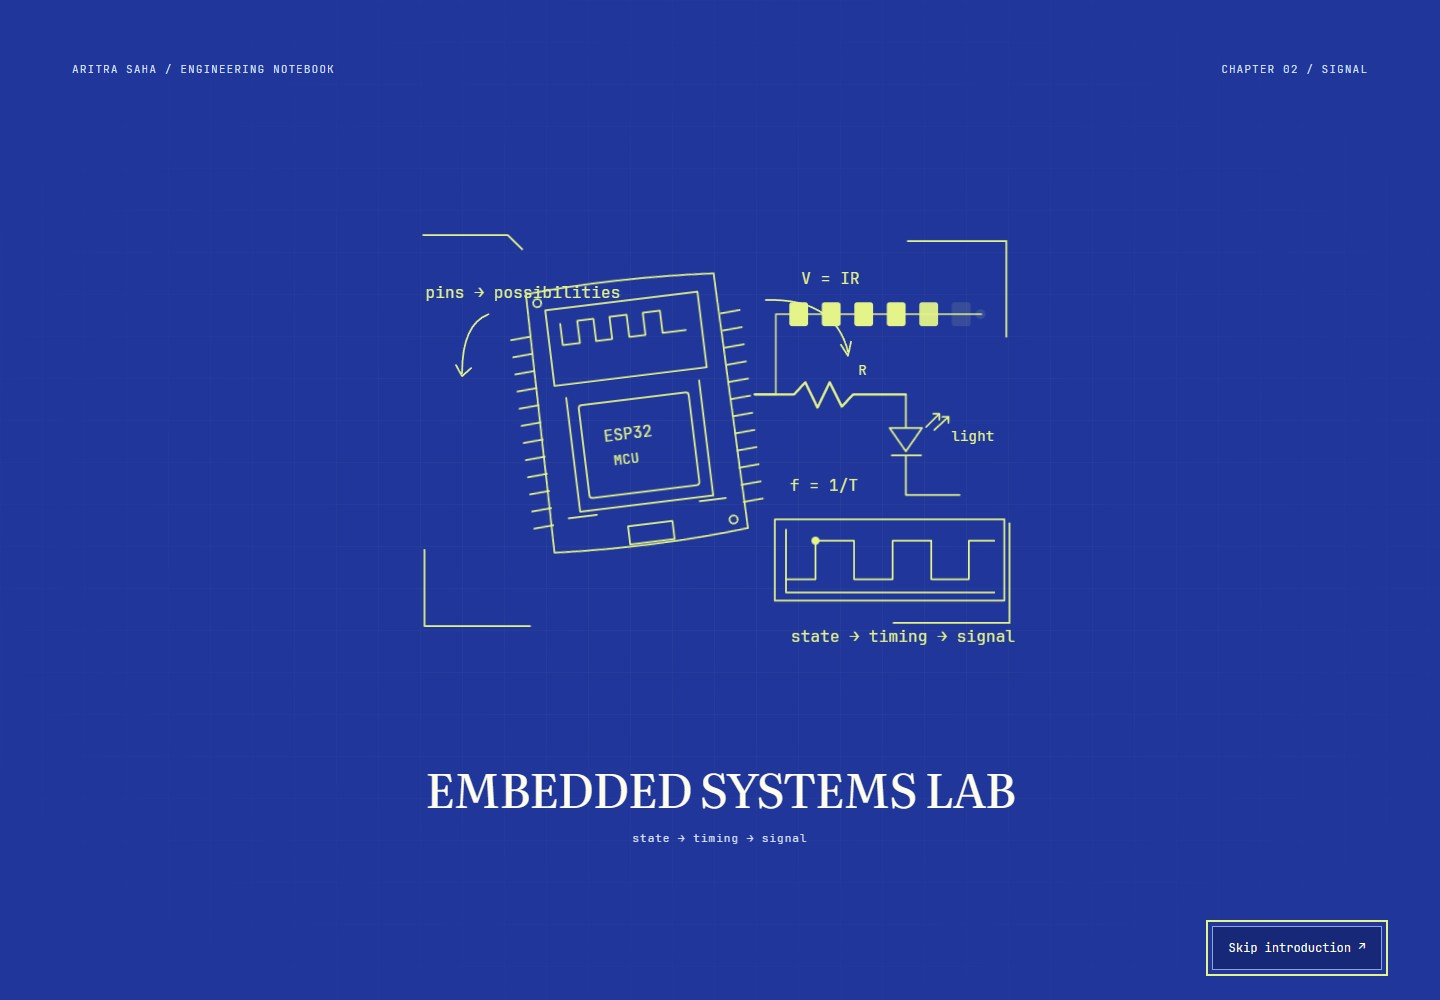
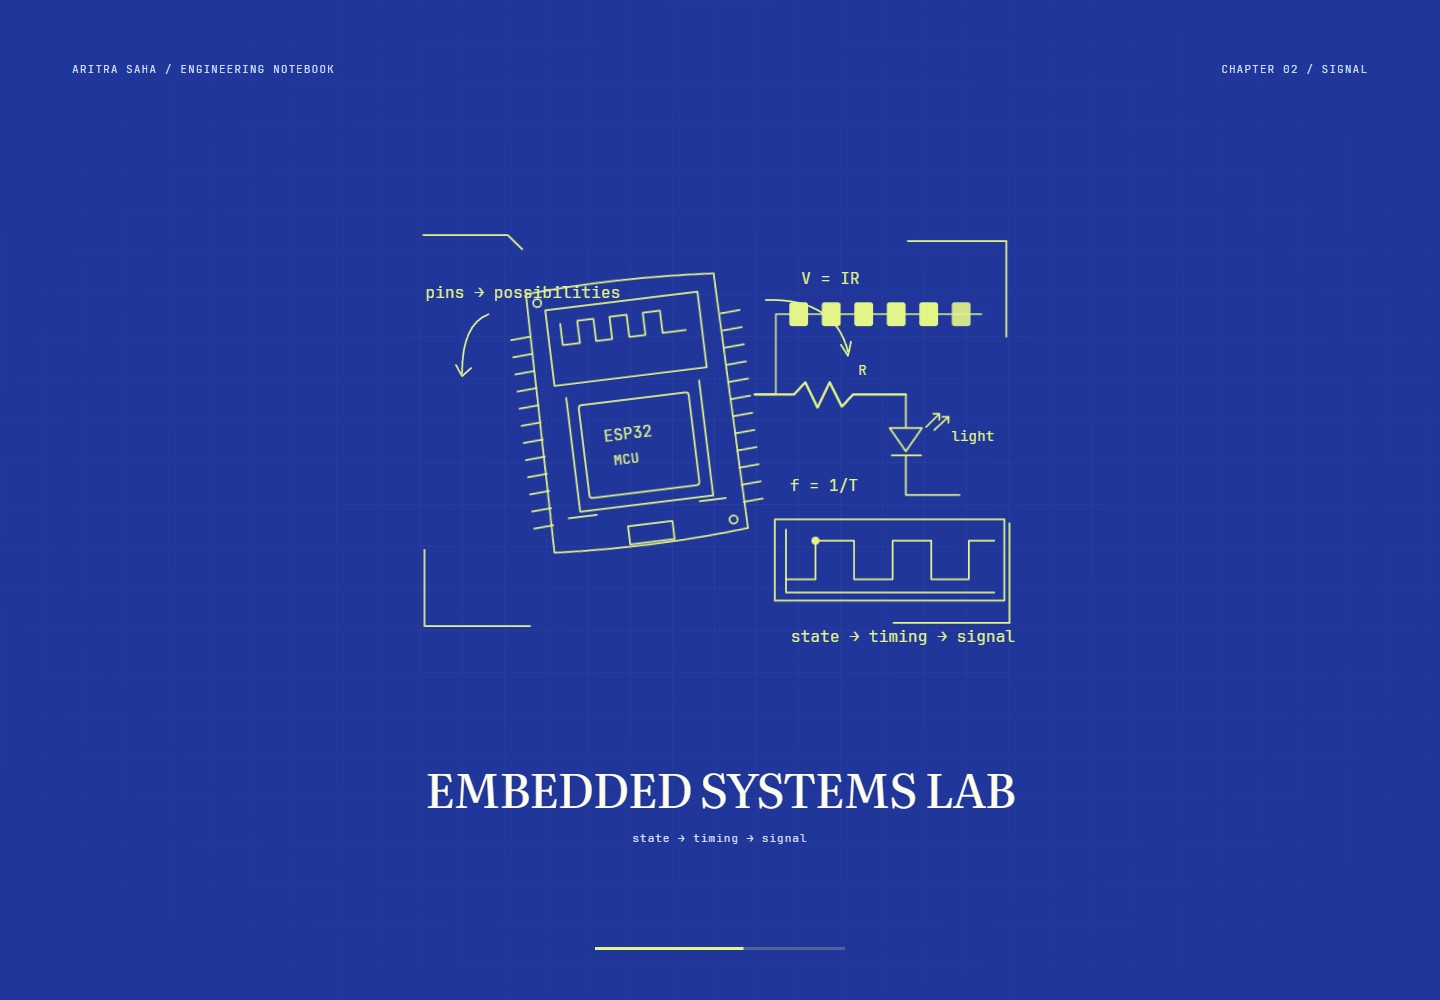
Replace chapter skip controls with timed progress bars

Changed region(s): [[0.8125, 0.899, 0.9688, 0.992], [0.4062, 0.93, 0.5312, 0.961], [0.6562, 0.279, 0.6875, 0.341]]

diff --git a/assets/chapter-entry.js b/assets/chapter-entry.js
@@ -175,8 +175,12 @@
       veil.className = "chapter-entry";
       veil.dataset.chapter = chapter;
       veil.setAttribute("role", "region");
-      veil.setAttribute("aria-label", title + " introduction");
-      veil.innerHTML = `<div class="chapter-paper"></div><div class="chapter-caption" aria-hidden="true"><span>ARITRA SAHA / ENGINEERING NOTEBOOK</span><span>${chapter === "embedded" ? "CHAPTER 02 / SIGNAL" : "CHAPTER 03 / DISCOVERY"}</span></div><div class="chapter-art" aria-hidden="true"></div><p class="chapter-title" aria-hidden="true">${title}<small>${chapter === "embedded" ? "state → timing → signal" : "observe → model → question"}</small></p><button class="chapter-skip" type="button">Skip introduction <span aria-hidden="true">↗</span></button>`;
+      veil.tabIndex = -1;
+      veil.setAttribute(
+        "aria-label",
+        title + " introduction. Press Escape or Tab to continue.",
+      );
+      veil.innerHTML = `<div class="chapter-paper"></div><div class="chapter-caption" aria-hidden="true"><span>ARITRA SAHA / ENGINEERING NOTEBOOK</span><span>${chapter === "embedded" ? "CHAPTER 02 / SIGNAL" : "CHAPTER 03 / DISCOVERY"}</span></div><div class="chapter-art" aria-hidden="true"></div><p class="chapter-title" aria-hidden="true">${title}<small>${chapter === "embedded" ? "state → timing → signal" : "observe → model → question"}</small></p><div class="chapter-progress" aria-hidden="true"><i></i></div>`;
       const svg = target.cloneNode(true);
       svg.removeAttribute("role");
       svg.removeAttribute("aria-labelledby");
@@ -216,9 +220,8 @@
       } catch {
         /* Animation is still skippable when storage is unavailable. */
       }
-      const skip = veil.querySelector(".chapter-skip");
-      skip.addEventListener("click", () => finish("skip"));
-      skip.focus({ preventScroll: true });
+      veil.addEventListener("click", () => finish("skip"));
+      veil.focus({ preventScroll: true });
       window.addEventListener("resize", onResize);
       signal();
       for (const [index, line] of [

diff --git a/assets/chapter-entry.css b/assets/chapter-entry.css
@@ -130,21 +130,29 @@ html[data-chapter-state="pending"] #chapter-paint {
   letter-spacing: 0.08em;
   color: #d8e1fa;
 }
-.chapter-skip {
+.chapter-progress {
   position: absolute;
-  right: 4vw;
-  bottom: 3vh;
-  min-height: 44px;
-  padding: 0.5rem 1rem;
-  pointer-events: auto;
-  color: #fffdec;
-  font: 0.75rem/1.5 var(--mono);
-  border: 1px solid #91a2da;
-  background: var(--deep, #172878);
+  left: 50%;
+  bottom: max(5vh, 24px);
+  width: min(250px, 65vw);
+  height: 3px;
+  transform: translateX(-50%);
+  background: #506399;
 }
-.chapter-skip:focus-visible {
-  outline: 2px solid #e4f489;
-  outline-offset: 4px;
+.chapter-progress > i {
+  display: block;
+  height: 100%;
+  background: #e4f489;
+  transform-origin: left;
+  animation: chapter-progress 2200ms linear both;
+}
+@keyframes chapter-progress {
+  from {
+    transform: scaleX(0);
+  }
+  to {
+    transform: scaleX(1);
+  }
 }
 .chapter-extra {
   fill: none;
@@ -154,9 +162,6 @@ html[data-chapter-state="pending"] #chapter-paint {
 .chapter-extra .chapter-led {
   fill: #e4f489;
   stroke: #e4f489;
-}
-.chapter-entry.is-leaving .chapter-skip {
-  opacity: 0.7;
 }
 .lab-hero[data-chapter-landed] :is(.lab-draw, .lab-sketch text, h1) {
   animation: none !important;

diff --git a/docs/portfolio-architecture.md b/docs/portfolio-architecture.md
@@ -50,7 +50,7 @@ All other existing IDs remain on the homepage, including `systems`, `principles`
 
 The homepage welcome implementation and its timing are unchanged. Embedded and Explorations use `chapter-entry.js` and `chapter-entry.css` for a first-visit, 2.2-second introduction: 1.6 seconds of staged drawing followed by a 600 ms geometric handoff into the existing hero SVG. Embedded adds a conceptual signal bus, six sequential LEDs and `f = 1/T` to the existing board sketch. Explorations stages its coordinates, orbital geometry, probability wave and network nodes. The SVG artwork is reused, without copying application runtimes or creating duplicate IDs.
 
-Skip, Escape, Tab, scrolling, resizing, hidden tabs and motion-preference changes release the page. Session repeat visits, reloads, history navigation, fragments, reduced motion and data saving bypass the new intros. The destination h1 remains in the accessibility tree, and completion or explicit skipping places focus there. A bounded watchdog and CSS cover timeout fail open; no-JavaScript content is visible normally. Page-level animation controllers pause during the introduction.
+The welcomes have no visible skip button. A slim citron progress bar tracks the secondary entrance's 2.2-second timeline, matching the homepage's existing epoch progress bar. It represents animation progress, not network loading. Escape, Tab, tapping the introductory artwork, scrolling, resizing, hidden tabs and motion-preference changes release the page. Session repeat visits, reloads, history navigation, fragments, reduced motion and data saving bypass the new intros. The destination h1 remains in the accessibility tree, and completion or explicit skipping places focus there. A bounded watchdog and CSS cover timeout fail open; no-JavaScript content is visible normally. Page-level animation controllers pause during the introduction.
 
 All three documents opt in to native cross-document View Transitions. A short 160 ms snapshot bridge applies to ordinary return navigation. `pageswap` and `pagereveal` skip native transitions for full introductions, reduced motion, fragments and history traversal, so native snapshots do not compete with cinematic artwork. Browsers without this API still run the independent chapter introductions and use normal document navigation. This follows the same-origin, two-document opt-in described in [MDN's View Transition API guide](https://developer.mozilla.org/en-US/docs/Web/API/View_Transition_API/Using). The site remains a multi-page static website.
 
